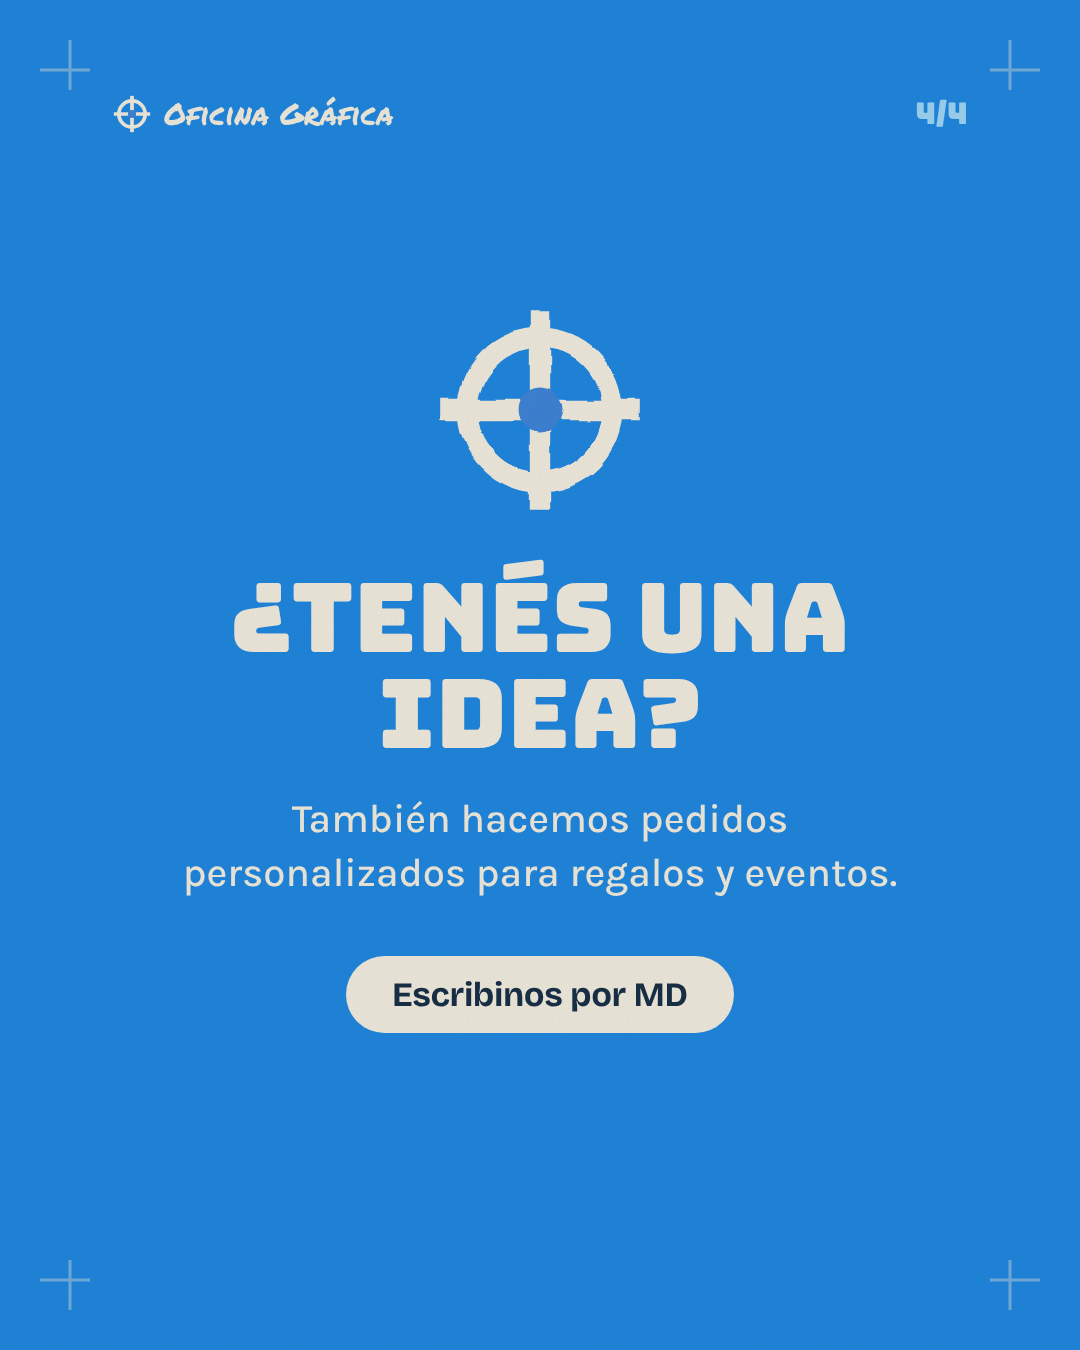
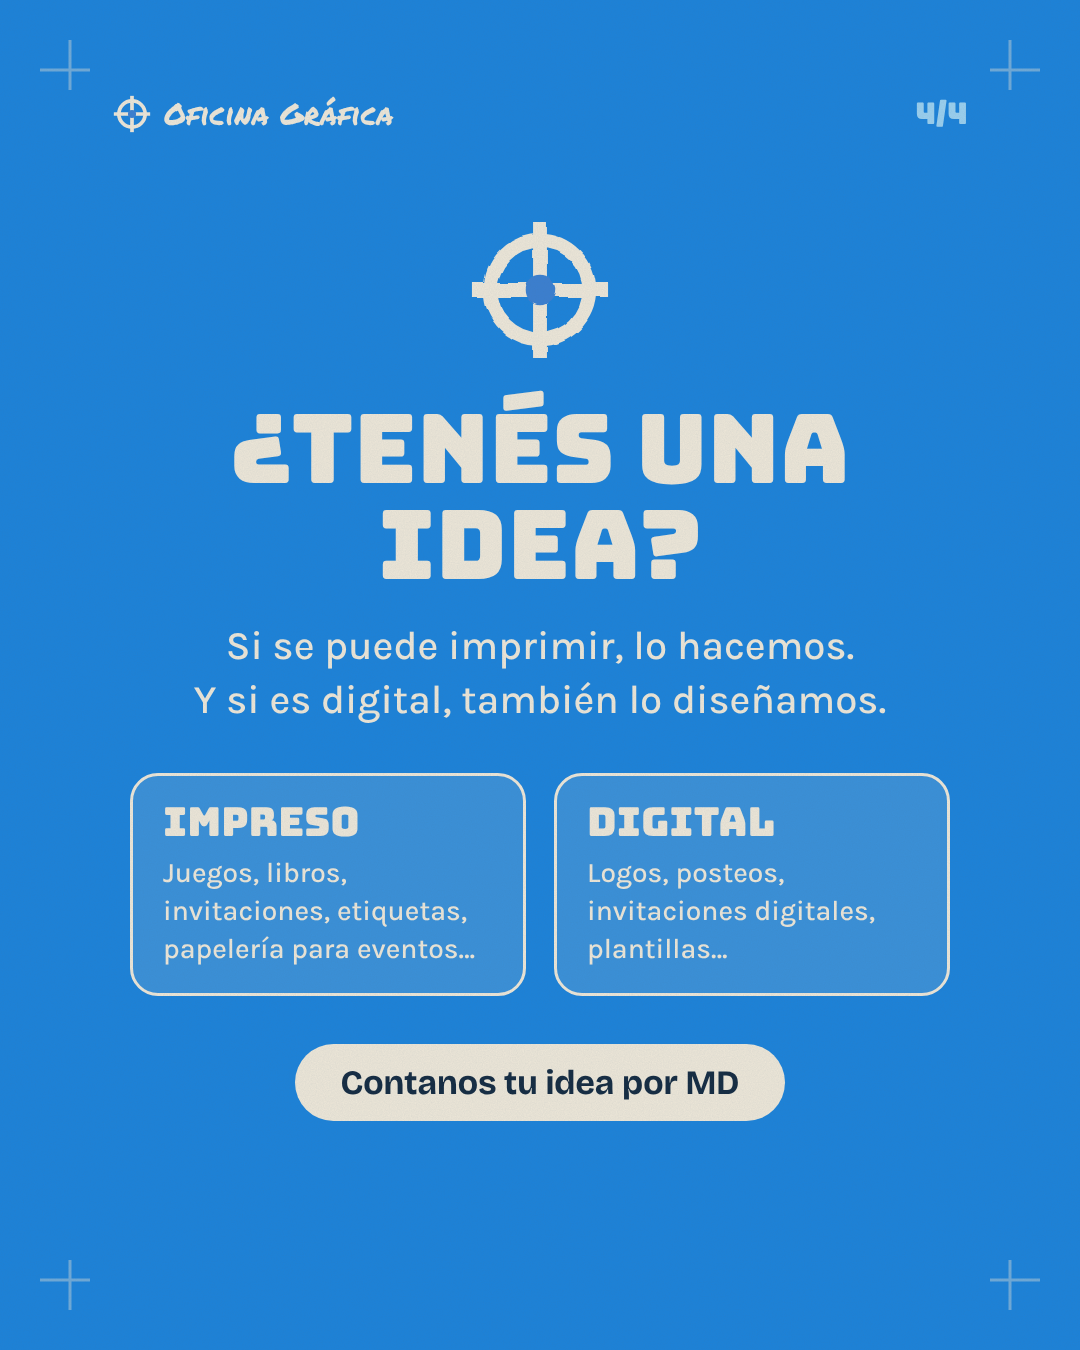
Redes: «¿Tenés una idea?» suma impreso y digital
Claude-Session: https://claude.ai/code/session_01FGxw9aPArw9pn3yxwBbtRR

Changed region(s): [[0.1222, 0.1556, 0.8861, 0.84]]

diff --git a/redes/fijadas/generar.py b/redes/fijadas/generar.py
@@ -90,11 +90,19 @@ QUIENES = [
     <div><div style="font-family:Brico;font-weight:700;font-size:42px;">Hechos con oficio</div><div class="txt" style="font-size:34px;opacity:.8;">Si no está en registro, no sale.</div></div></div>
 </div>"""),
     (VIVO, PAPEL, f"""
-<div class="abs" style="left:0;right:0;top:300px;display:flex;flex-direction:column;align-items:center;text-align:center;">
-  {mira(220, PAPEL)}
-  <div class="bungee" style="font-size:96px;margin-top:50px;">¿TENÉS UNA<br>IDEA?</div>
-  <div class="txt" style="margin-top:30px;max-width:780px;">También hacemos pedidos personalizados para regalos y eventos.</div>
-  <div style="margin-top:56px;"><span class="pill" style="background:{PAPEL};color:{TINTA};">Escribinos por MD</span></div>
+<div class="abs" style="left:0;right:0;top:215px;display:flex;flex-direction:column;align-items:center;text-align:center;">
+  {mira(150, PAPEL)}
+  <div class="bungee" style="font-size:96px;margin-top:36px;">¿TENÉS UNA<br>IDEA?</div>
+  <div class="txt" style="margin-top:26px;max-width:820px;">Si se puede imprimir, lo hacemos.<br>Y si es digital, también lo diseñamos.</div>
+  <div style="display:flex;gap:28px;margin-top:46px;text-align:left;">
+    <div style="background:rgba(238,231,216,.14);border:3px solid {PAPEL};border-radius:28px;padding:26px 30px;width:330px;">
+      <div class="bungee" style="font-size:40px;">IMPRESO</div>
+      <div style="font-size:28px;font-weight:500;line-height:1.35;margin-top:12px;">Juegos, libros, invitaciones, etiquetas, papelería para eventos…</div></div>
+    <div style="background:rgba(238,231,216,.14);border:3px solid {PAPEL};border-radius:28px;padding:26px 30px;width:330px;">
+      <div class="bungee" style="font-size:40px;">DIGITAL</div>
+      <div style="font-size:28px;font-weight:500;line-height:1.35;margin-top:12px;">Logos, posteos, invitaciones digitales, plantillas…</div></div>
+  </div>
+  <div style="margin-top:48px;"><span class="pill" style="background:{PAPEL};color:{TINTA};">Contanos tu idea por MD</span></div>
 </div>"""),
 ]
 
